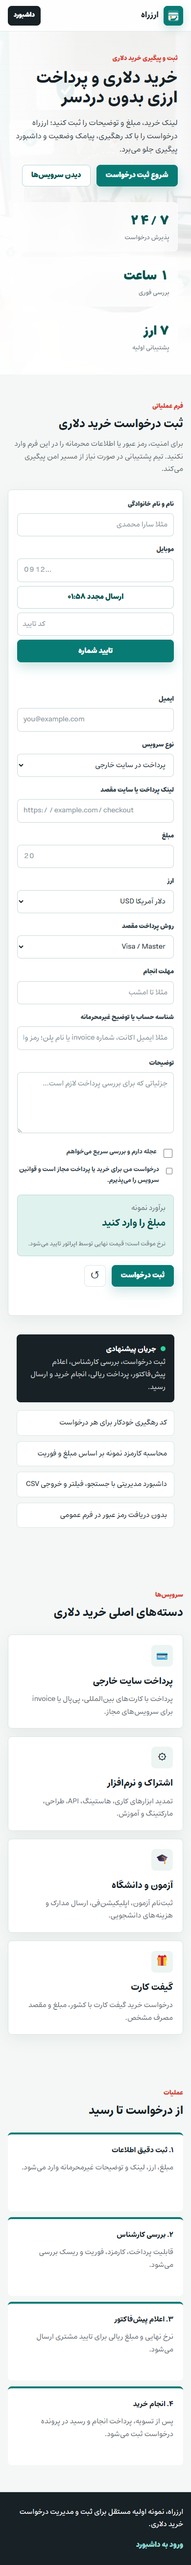
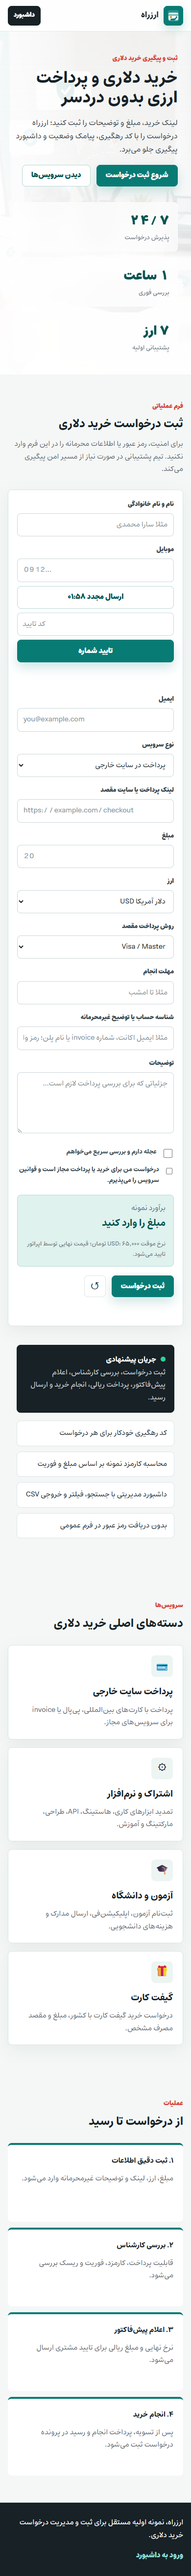
Clarify Bonbast rate in estimates

diff --git a/public/app.js b/public/app.js
@@ -1,5 +1,6 @@
 (function () {
   const toman = new Intl.NumberFormat("fa-IR", { maximumFractionDigits: 0 });
+  const amountFormatter = new Intl.NumberFormat("fa-IR", { maximumFractionDigits: 2 });
   const form = document.querySelector("#requestForm");
   const message = document.querySelector("#formMessage");
   const estimateText = document.querySelector("#estimateText");
@@ -149,16 +150,28 @@
     }
   }
 
+  function rateSourceLabel() {
+    return rateState.source === "bonbast" ? "نرخ Bonbast" : "نرخ موقت";
+  }
+
+  function selectedRateText(currency) {
+    return `${rateSourceLabel()} ${currency}: ${toman.format(rateFor(currency))} تومان`;
+  }
+
   function updateEstimate() {
     const amount = Number(form.elements.amount.value);
     const urgent = form.elements.urgent.checked;
     const currency = form.elements.currency.value;
-    const estimated = estimate(amount, urgent, currency);
-    estimateText.textContent = estimated ? `${toman.format(estimated)} تومان` : "مبلغ را وارد کنید";
+    const details = Number.isFinite(amount) && amount > 0 ? estimateDetails(amount, urgent, currency) : null;
+    estimateText.textContent = details ? `${toman.format(details.estimatedToman)} تومان` : "مبلغ را وارد کنید";
     if (estimateHint) {
-      estimateHint.textContent = rateState.source === "bonbast"
-        ? "بر اساس نرخ Bonbast؛ قیمت نهایی توسط اپراتور تایید میشود."
-        : "نرخ موقت است؛ قیمت نهایی توسط اپراتور تایید میشود.";
+      if (details) {
+        const baseToman = Math.round(amount * details.rateToman);
+        const feeAmount = Math.round((details.serviceFee + details.urgentFee) * 100) / 100;
+        estimateHint.textContent = `${selectedRateText(currency)}؛ مبلغ پایه: ${toman.format(baseToman)} تومان؛ کارمزد: ${amountFormatter.format(feeAmount)} ${currency}.`;
+      } else {
+        estimateHint.textContent = `${selectedRateText(currency)}؛ قیمت نهایی توسط اپراتور تایید میشود.`;
+      }
     }
   }
 
@@ -269,7 +282,10 @@
     try {
       const payload = await submitViaApiOrStatic(data);
       const request = payload.request;
-      setMessage(`درخواست شما با کد ${request.id} ثبت شد. برآورد نمونه: ${toman.format(request.estimate.estimatedToman)} تومان.`, "success");
+      const rateText = request.estimate?.rateToman
+        ? ` با نرخ ${toman.format(request.estimate.rateToman)} تومان`
+        : "";
+      setMessage(`درخواست شما با کد ${request.id} ثبت شد. برآورد نهایی${rateText}: ${toman.format(request.estimate.estimatedToman)} تومان.`, "success");
       form.reset();
       resetPhoneVerification();
       setPhoneVerifyMessage("", "");

diff --git a/public/dashboard.html b/public/dashboard.html
@@ -7,7 +7,7 @@
     <link rel="icon" href="favicon.svg" type="image/svg+xml">
     <meta name="theme-color" content="#087b75">
     <link rel="preload" href="assets/fonts/Estedad-Regular.ttf" as="font" type="font/ttf" crossorigin>
-    <link rel="stylesheet" href="styles.css">
+    <link rel="stylesheet" href="styles.css?v=20260815-rate-detail">
   </head>
   <body class="dashboard-body">
     <header class="site-header dashboard-header">
@@ -133,6 +133,7 @@
                 <div><dt>سرویس</dt><dd id="detailService"></dd></div>
                 <div><dt>مبلغ</dt><dd id="detailAmount"></dd></div>
                 <div><dt>برآورد ریالی</dt><dd id="detailEstimate"></dd></div>
+                <div><dt>نرخ برآورد</dt><dd id="detailRate"></dd></div>
                 <div><dt>قیمت نهایی</dt><dd id="detailFinalPrice"></dd></div>
                 <div><dt>فوریت</dt><dd id="detailUrgent"></dd></div>
                 <div class="span-full"><dt>لینک مقصد</dt><dd><a id="detailUrl" href="#" target="_blank" rel="noopener"></a></dd></div>
@@ -188,6 +189,6 @@
       </section>
     </main>
 
-    <script src="dashboard.js" defer></script>
+    <script src="dashboard.js?v=20260815-rate-detail" defer></script>
   </body>
 </html>

diff --git a/public/dashboard.js b/public/dashboard.js
@@ -293,6 +293,9 @@
     document.querySelector("#detailService").textContent = serviceLabels[item.serviceType] || item.serviceType;
     document.querySelector("#detailAmount").textContent = `${formatter.format(item.amount)} ${item.currency}`;
     document.querySelector("#detailEstimate").textContent = toman(item.estimate?.estimatedToman);
+    document.querySelector("#detailRate").textContent = item.estimate?.rateToman
+      ? `${formatter.format(item.estimate.rateToman)} تومان (${item.estimate.rateSource || "نرخ"})`
+      : "-";
     document.querySelector("#detailFinalPrice").textContent = item.finalPriceToman ? toman(item.finalPriceToman) : "-";
     document.querySelector("#detailUrgent").textContent = item.urgent ? "فوری" : "عادی";
     const link = document.querySelector("#detailUrl");

diff --git a/public/index.html b/public/index.html
@@ -8,7 +8,7 @@
     <link rel="icon" href="favicon.svg" type="image/svg+xml">
     <meta name="theme-color" content="#087b75">
     <link rel="preload" href="assets/fonts/Estedad-Regular.ttf" as="font" type="font/ttf" crossorigin>
-    <link rel="stylesheet" href="styles.css">
+    <link rel="stylesheet" href="styles.css?v=20260815-rate-detail">
   </head>
   <body>
     <header class="site-header" data-elevated="false">
@@ -253,6 +253,6 @@
       <a href="dashboard.html">ورود به داشبورد</a>
     </footer>
 
-    <script src="app.js" defer></script>
+    <script src="app.js?v=20260815-rate-detail" defer></script>
   </body>
 </html>

diff --git a/public/benchmark.html b/public/benchmark.html
@@ -7,7 +7,7 @@
     <link rel="icon" href="favicon.svg" type="image/svg+xml">
     <meta name="theme-color" content="#087b75">
     <link rel="preload" href="assets/fonts/Estedad-Regular.ttf" as="font" type="font/ttf" crossorigin>
-    <link rel="stylesheet" href="styles.css">
+    <link rel="stylesheet" href="styles.css?v=20260815-rate-detail">
   </head>
   <body>
     <header class="site-header">
